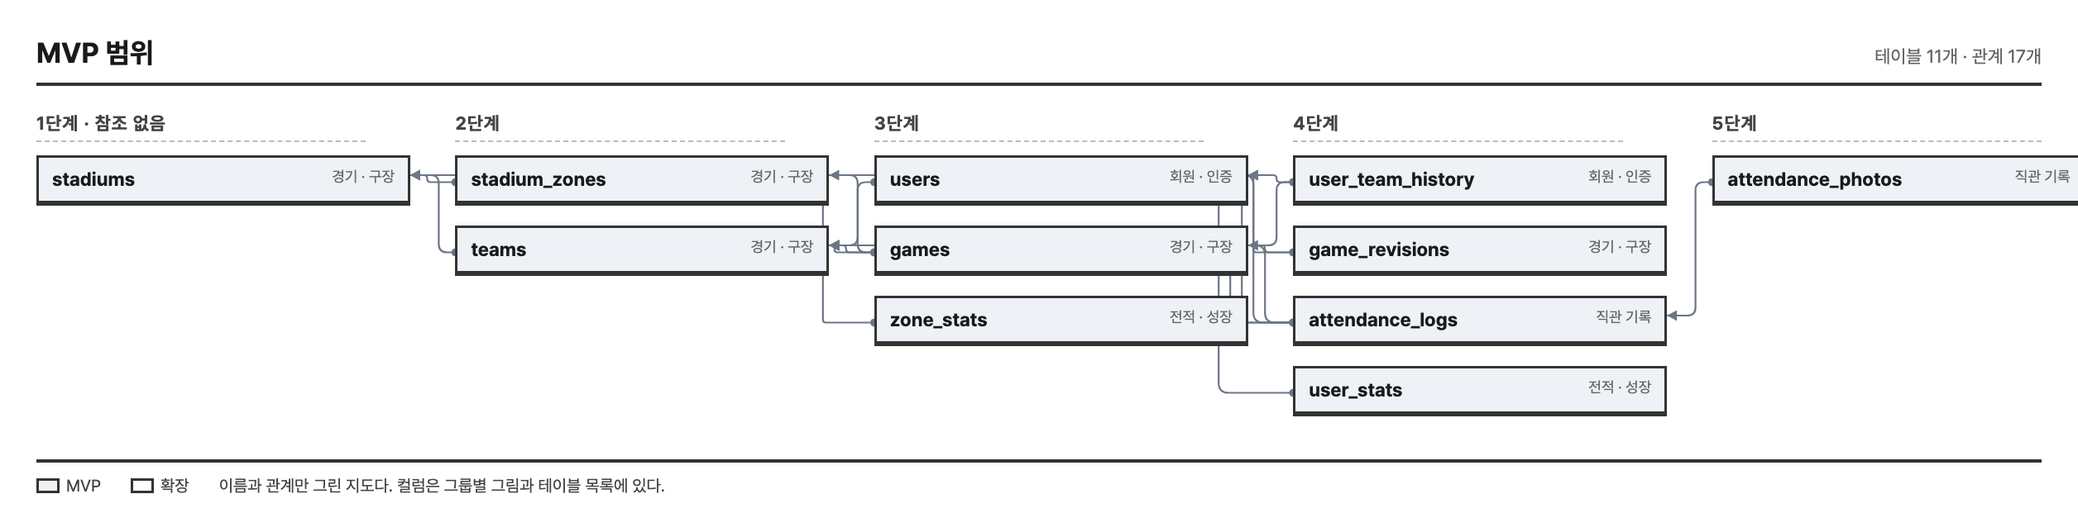
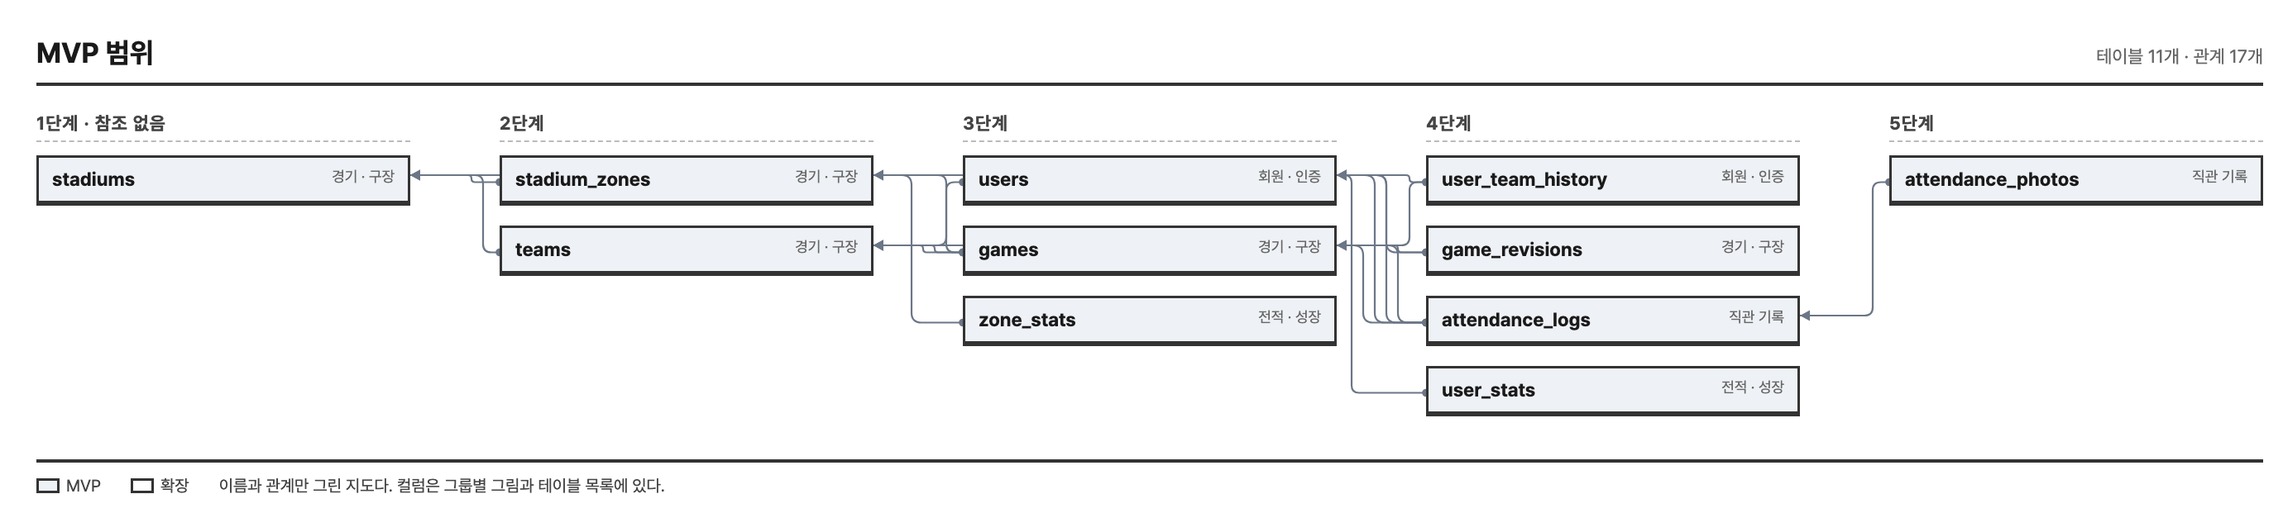
[INFRA] fix: ERD 그림의 오른쪽이 잘리던 문제
폭을 단계 수로 계산해 넘겼는데 테이블 이름 길이에 따라 몇 픽셀씩 넘쳐
오른쪽 열이 잘려 나갔다. MVP 지도 · 경기 구장 · 전체 지도 셋이 그랬다.

폭을 계산으로 맞추지 않는다. 내용에 맞춰 늘어나게 두고 창을 넉넉히 잡은 뒤
잉크가 닿은 범위로 잘라 낸다. 이제 이름이 길어져도 잘리지 않는다.

diff --git a/docs/_assets/erd/ERD-G2.html b/docs/_assets/erd/ERD-G2.html
@@ -42,7 +42,7 @@ svg.wires polygon { fill: #6b7686; }
   src: url('file:///Users/skalamok/Desktop/projects/today-jikgwan/docs/_assets/font/Pretendard-Regular.woff2') format('woff2'); }
 @font-face { font-family: Pretendard; font-weight: 700;
   src: url('file:///Users/skalamok/Desktop/projects/today-jikgwan/docs/_assets/font/Pretendard-Bold.woff2') format('woff2'); }
-body { width: 888px; }</style></head><body>
+body { width: max-content; min-width: 888px; }</style></head><body>
 <div class="sheet"><div class="head"><b>경기 · 구장</b><span>테이블 6개 · 관계 8개 &nbsp;·&nbsp; 단계 = 참조 깊이. 1단계는 다른 테이블을 참조하지 않는다</span></div>
 <svg class="wires"></svg><div class="cols"><div class="grp"><h3>1단계 · 참조 없음</h3><div class="sub"><div><div class="tbl mvp" data-t="stadiums"><div class="t"><span>stadiums</span><span class="sc">MVP</span></div><div class="c pk" data-c="stadiums.id"><span class="n">id</span><span class="ty">PK bigint</span></div><div class="c" data-c="stadiums.name"><span class="n">name</span><span class="ty">varchar(50)</span></div><div class="c" data-c="stadiums.name_en"><span class="n">name_en</span><span class="ty">varchar(100)</span></div><div class="c" data-c="stadiums.address"><span class="n">address</span><span class="ty">varchar(255)</span></div><div class="c" data-c="stadiums.capacity"><span class="n">capacity</span><span class="ty">int</span></div><div class="c" data-c="stadiums.latitude"><span class="n">latitude</span><span class="ty">decimal(10,7)</span></div><div class="c" data-c="stadiums.longitude"><span class="n">longitude</span><span class="ty">decimal(10,7)</span></div><div class="c" data-c="stadiums.grid_nx"><span class="n">grid_nx</span><span class="ty">int</span></div><div class="c" data-c="stadiums.grid_ny"><span class="n">grid_ny</span><span class="ty">int</span></div></div></div></div></div><div class="grp"><h3>2단계</h3><div class="sub"><div><div class="tbl mvp" data-t="stadium_zones"><div class="t"><span>stadium_zones</span><span class="sc">MVP</span></div><div class="c pk" data-c="stadium_zones.id"><span class="n">id</span><span class="ty">PK bigint</span></div><div class="c fk" data-c="stadium_zones.stadium_id"><span class="n">stadium_id</span><span class="ty">→ stadiums</span></div><div class="c" data-c="stadium_zones.name"><span class="n">name</span><span class="ty">varchar(50)</span></div><div class="c" data-c="stadium_zones.sort_order"><span class="n">sort_order</span><span class="ty">int</span></div><div class="c" data-c="stadium_zones.is_active"><span class="n">is_active</span><span class="ty">boolean</span></div></div><div class="tbl mvp" data-t="teams"><div class="t"><span>teams</span><span class="sc">MVP</span></div><div class="c pk" data-c="teams.id"><span class="n">id</span><span class="ty">PK bigint</span></div><div class="c" data-c="teams.name"><span class="n">name</span><span class="ty">varchar(50)</span></div><div class="c" data-c="teams.name_en"><span class="n">name_en</span><span class="ty">varchar(100)</span></div><div class="c" data-c="teams.short_name"><span class="n">short_name</span><span class="ty">varchar(10)</span></div><div class="c fk" data-c="teams.home_stadium_id"><span class="n">home_stadium_id</span><span class="ty">→ stadiums</span></div><div class="c" data-c="teams.external_ref"><span class="n">external_ref</span><span class="ty">varchar(50)</span></div><div class="c" data-c="teams.logo_url"><span class="n">logo_url</span><span class="ty">varchar(500)</span></div><div class="c" data-c="teams.homepage_url"><span class="n">homepage_url</span><span class="ty">varchar(500)</span></div><div class="c" data-c="teams.ticket_url"><span class="n">ticket_url</span><span class="ty">varchar(500)</span></div><div class="c" data-c="teams.instagram_url"><span class="n">instagram_url</span><span class="ty">varchar(500)</span></div><div class="c" data-c="teams.youtube_url"><span class="n">youtube_url</span><span class="ty">varchar(500)</span></div><div class="c" data-c="teams.is_active"><span class="n">is_active</span><span class="ty">boolean</span></div></div></div></div></div><div class="grp"><h3>3단계</h3><div class="sub"><div><div class="tbl mvp" data-t="games"><div class="t"><span>games</span><span class="sc">MVP</span></div><div class="c pk" data-c="games.id"><span class="n">id</span><span class="ty">PK bigint</span></div><div class="c" data-c="games.season_year"><span class="n">season_year</span><span class="ty">int</span></div><div class="c" data-c="games.game_date"><span class="n">game_date</span><span class="ty">date</span></div><div class="c" data-c="games.start_at"><span class="n">start_at</span><span class="ty">timestamp</span></div><div class="c fk" data-c="games.stadium_id"><span class="n">stadium_id</span><span class="ty">→ stadiums</span></div><div class="c fk" data-c="games.home_team_id"><span class="n">home_team_id</span><span class="ty">→ teams</span></div><div class="c fk" data-c="games.away_team_id"><span class="n">away_team_id</span><span class="ty">→ teams</span></div><div class="c" data-c="games.home_score"><span class="n">home_score</span><span class="ty">int</span></div><div class="c" data-c="games.away_score"><span class="n">away_score</span><span class="ty">int</span></div><div class="c" data-c="games.status"><span class="n">status</span><span class="ty">game_status</span></div><div class="c" data-c="games.source"><span class="n">source</span><span class="ty">game_source</span></div><div class="c" data-c="games.external_ref"><span class="n">external_ref</span><span class="ty">varchar(100)</span></div><div class="c" data-c="games.synced_at"><span class="n">synced_at</span><span class="ty">timestamp</span></div><div class="c" data-c="games.result_confirmed"><span class="n">result_confirmed</span><span class="ty">boolean</span></div><div class="c" data-c="games.confirmed_at"><span class="n">confirmed_at</span><span class="ty">timestamp</span></div><div class="c" data-c="games.created_at"><span class="n">created_at</span><span class="ty">timestamp</span></div><div class="c" data-c="games.updated_at"><span class="n">updated_at</span><span class="ty">timestamp</span></div></div></div></div></div><div class="grp"><h3>4단계</h3><div class="sub"><div><div class="tbl mvp" data-t="game_revisions"><div class="t"><span>game_revisions</span><span class="sc">MVP</span></div><div class="c pk" data-c="game_revisions.id"><span class="n">id</span><span class="ty">PK bigint</span></div><div class="c fk" data-c="game_revisions.game_id"><span class="n">game_id</span><span class="ty">→ games</span></div><div class="c" data-c="game_revisions.before_status"><span class="n">before_status</span><span class="ty">game_status</span></div><div class="c" data-c="game_revisions.before_home_score"><span class="n">before_home_score</span><span class="ty">int</span></div><div class="c" data-c="game_revisions.before_away_score"><span class="n">before_away_score</span><span class="ty">int</span></div><div class="c" data-c="game_revisions.after_status"><span class="n">after_status</span><span class="ty">game_status</span></div><div class="c" data-c="game_revisions.after_home_score"><span class="n">after_home_score</span><span class="ty">int</span></div><div class="c" data-c="game_revisions.after_away_score"><span class="n">after_away_score</span><span class="ty">int</span></div><div class="c" data-c="game_revisions.reason"><span class="n">reason</span><span class="ty">varchar(255)</span></div><div class="c fk" data-c="game_revisions.revised_by"><span class="n">revised_by</span><span class="ty">→ users</span></div><div class="c" data-c="game_revisions.revised_at"><span class="n">revised_at</span><span class="ty">timestamp</span></div></div><div class="tbl ext" data-t="game_weather"><div class="t"><span>game_weather</span><span class="sc">확장</span></div><div class="c pk" data-c="game_weather.game_id"><span class="n">game_id</span><span class="ty">PK bigint</span></div><div class="c" data-c="game_weather.temperature"><span class="n">temperature</span><span class="ty">decimal(4,1)</span></div><div class="c" data-c="game_weather.sky_code"><span class="n">sky_code</span><span class="ty">varchar(10)</span></div><div class="c" data-c="game_weather.precip_type"><span class="n">precip_type</span><span class="ty">varchar(10)</span></div><div class="c" data-c="game_weather.precip_prob"><span class="n">precip_prob</span><span class="ty">int</span></div><div class="c" data-c="game_weather.alert_title"><span class="n">alert_title</span><span class="ty">varchar(100)</span></div><div class="c" data-c="game_weather.fetched_at"><span class="n">fetched_at</span><span class="ty">timestamp</span></div></div></div></div></div></div>
 <div class="legend"><span>다른 그룹 참조 : users</span></div>

diff --git a/docs/_assets/erd/ERD-G5.html b/docs/_assets/erd/ERD-G5.html
@@ -42,7 +42,7 @@ svg.wires polygon { fill: #6b7686; }
   src: url('file:///Users/skalamok/Desktop/projects/today-jikgwan/docs/_assets/font/Pretendard-Regular.woff2') format('woff2'); }
 @font-face { font-family: Pretendard; font-weight: 700;
   src: url('file:///Users/skalamok/Desktop/projects/today-jikgwan/docs/_assets/font/Pretendard-Bold.woff2') format('woff2'); }
-body { width: 560px; }</style></head><body>
+body { width: max-content; min-width: 560px; }</style></head><body>
 <div class="sheet"><div class="head"><b>직관 메이트</b><span>테이블 5개 · 관계 10개 &nbsp;·&nbsp; 단계 = 참조 깊이. 1단계는 다른 테이블을 참조하지 않는다</span></div>
 <svg class="wires"></svg><div class="cols"><div class="grp"><h3>1단계 · 참조 없음</h3><div class="sub"><div><div class="tbl ext" data-t="companion_posts"><div class="t"><span>companion_posts</span><span class="sc">확장</span></div><div class="c pk" data-c="companion_posts.id"><span class="n">id</span><span class="ty">PK bigint</span></div><div class="c fk" data-c="companion_posts.game_id"><span class="n">game_id</span><span class="ty">→ games</span></div><div class="c fk" data-c="companion_posts.author_id"><span class="n">author_id</span><span class="ty">→ users</span></div><div class="c" data-c="companion_posts.intro"><span class="n">intro</span><span class="ty">varchar(500)</span></div><div class="c" data-c="companion_posts.capacity"><span class="n">capacity</span><span class="ty">int</span></div><div class="c" data-c="companion_posts.confirmed_count"><span class="n">confirmed_count</span><span class="ty">int</span></div><div class="c" data-c="companion_posts.status"><span class="n">status</span><span class="ty">post_status</span></div><div class="c" data-c="companion_posts.version"><span class="n">version</span><span class="ty">int</span></div><div class="c" data-c="companion_posts.created_at"><span class="n">created_at</span><span class="ty">timestamp</span></div><div class="c" data-c="companion_posts.closed_at"><span class="n">closed_at</span><span class="ty">timestamp</span></div></div></div></div></div><div class="grp"><h3>2단계</h3><div class="sub"><div><div class="tbl ext" data-t="companion_applications"><div class="t"><span>companion_applications</span><span class="sc">확장</span></div><div class="c pk" data-c="companion_applications.id"><span class="n">id</span><span class="ty">PK bigint</span></div><div class="c fk" data-c="companion_applications.companion_post_id"><span class="n">companion_post_id</span><span class="ty">→ companion_posts</span></div><div class="c fk" data-c="companion_applications.user_id"><span class="n">user_id</span><span class="ty">→ users</span></div><div class="c" data-c="companion_applications.status"><span class="n">status</span><span class="ty">application_status</span></div><div class="c" data-c="companion_applications.seq"><span class="n">seq</span><span class="ty">int</span></div><div class="c" data-c="companion_applications.applied_at"><span class="n">applied_at</span><span class="ty">timestamp</span></div><div class="c" data-c="companion_applications.canceled_at"><span class="n">canceled_at</span><span class="ty">timestamp</span></div></div><div class="tbl ext" data-t="companion_comments"><div class="t"><span>companion_comments</span><span class="sc">확장</span></div><div class="c pk" data-c="companion_comments.id"><span class="n">id</span><span class="ty">PK bigint</span></div><div class="c fk" data-c="companion_comments.companion_post_id"><span class="n">companion_post_id</span><span class="ty">→ companion_posts</span></div><div class="c fk" data-c="companion_comments.user_id"><span class="n">user_id</span><span class="ty">→ users</span></div><div class="c" data-c="companion_comments.content"><span class="n">content</span><span class="ty">varchar(500)</span></div><div class="c" data-c="companion_comments.created_at"><span class="n">created_at</span><span class="ty">timestamp</span></div><div class="c" data-c="companion_comments.deleted_at"><span class="n">deleted_at</span><span class="ty">timestamp</span></div></div><div class="tbl ext" data-t="companion_message_reads"><div class="t"><span>companion_message_reads</span><span class="sc">확장</span></div><div class="c pk" data-c="companion_message_reads.id"><span class="n">id</span><span class="ty">PK bigint</span></div><div class="c fk" data-c="companion_message_reads.companion_post_id"><span class="n">companion_post_id</span><span class="ty">→ companion_posts</span></div><div class="c fk" data-c="companion_message_reads.user_id"><span class="n">user_id</span><span class="ty">→ users</span></div><div class="c" data-c="companion_message_reads.last_read_at"><span class="n">last_read_at</span><span class="ty">timestamp</span></div></div><div class="tbl ext" data-t="companion_messages"><div class="t"><span>companion_messages</span><span class="sc">확장</span></div><div class="c pk" data-c="companion_messages.id"><span class="n">id</span><span class="ty">PK bigint</span></div><div class="c fk" data-c="companion_messages.companion_post_id"><span class="n">companion_post_id</span><span class="ty">→ companion_posts</span></div><div class="c fk" data-c="companion_messages.user_id"><span class="n">user_id</span><span class="ty">→ users</span></div><div class="c" data-c="companion_messages.content"><span class="n">content</span><span class="ty">varchar(1000)</span></div><div class="c" data-c="companion_messages.created_at"><span class="n">created_at</span><span class="ty">timestamp</span></div></div></div></div></div></div>
 <div class="legend"><span>다른 그룹 참조 : games, users</span></div>

diff --git a/docs/_assets/erd/ERD-G3.html b/docs/_assets/erd/ERD-G3.html
@@ -42,7 +42,7 @@ svg.wires polygon { fill: #6b7686; }
   src: url('file:///Users/skalamok/Desktop/projects/today-jikgwan/docs/_assets/font/Pretendard-Regular.woff2') format('woff2'); }
 @font-face { font-family: Pretendard; font-weight: 700;
   src: url('file:///Users/skalamok/Desktop/projects/today-jikgwan/docs/_assets/font/Pretendard-Bold.woff2') format('woff2'); }
-body { width: 560px; }</style></head><body>
+body { width: max-content; min-width: 560px; }</style></head><body>
 <div class="sheet"><div class="head"><b>직관 기록</b><span>테이블 3개 · 관계 7개 &nbsp;·&nbsp; 단계 = 참조 깊이. 1단계는 다른 테이블을 참조하지 않는다</span></div>
 <svg class="wires"></svg><div class="cols"><div class="grp"><h3>1단계 · 참조 없음</h3><div class="sub"><div><div class="tbl mvp" data-t="attendance_logs"><div class="t"><span>attendance_logs</span><span class="sc">MVP</span></div><div class="c pk" data-c="attendance_logs.id"><span class="n">id</span><span class="ty">PK bigint</span></div><div class="c fk" data-c="attendance_logs.user_id"><span class="n">user_id</span><span class="ty">→ users</span></div><div class="c fk" data-c="attendance_logs.game_id"><span class="n">game_id</span><span class="ty">→ games</span></div><div class="c fk" data-c="attendance_logs.cheer_team_id"><span class="n">cheer_team_id</span><span class="ty">→ teams</span></div><div class="c fk" data-c="attendance_logs.stadium_zone_id"><span class="n">stadium_zone_id</span><span class="ty">→ stadium_zones</span></div><div class="c" data-c="attendance_logs.zone_rating"><span class="n">zone_rating</span><span class="ty">tinyint</span></div><div class="c" data-c="attendance_logs.memo"><span class="n">memo</span><span class="ty">varchar(1000)</span></div><div class="c" data-c="attendance_logs.game_rating"><span class="n">game_rating</span><span class="ty">tinyint</span></div><div class="c" data-c="attendance_logs.ticket_cost"><span class="n">ticket_cost</span><span class="ty">int</span></div><div class="c" data-c="attendance_logs.food_cost"><span class="n">food_cost</span><span class="ty">int</span></div><div class="c" data-c="attendance_logs.transport_cost"><span class="n">transport_cost</span><span class="ty">int</span></div><div class="c" data-c="attendance_logs.visibility"><span class="n">visibility</span><span class="ty">visibility</span></div><div class="c" data-c="attendance_logs.weather_sky"><span class="n">weather_sky</span><span class="ty">varchar(10)</span></div><div class="c" data-c="attendance_logs.weather_temp"><span class="n">weather_temp</span><span class="ty">decimal(4,1)</span></div><div class="c" data-c="attendance_logs.created_at"><span class="n">created_at</span><span class="ty">timestamp</span></div><div class="c" data-c="attendance_logs.updated_at"><span class="n">updated_at</span><span class="ty">timestamp</span></div><div class="c" data-c="attendance_logs.deleted_at"><span class="n">deleted_at</span><span class="ty">timestamp</span></div></div></div></div></div><div class="grp"><h3>2단계</h3><div class="sub"><div><div class="tbl ext" data-t="attendance_companions"><div class="t"><span>attendance_companions</span><span class="sc">확장</span></div><div class="c pk" data-c="attendance_companions.id"><span class="n">id</span><span class="ty">PK bigint</span></div><div class="c fk" data-c="attendance_companions.attendance_log_id"><span class="n">attendance_log_id</span><span class="ty">→ attendance_logs</span></div><div class="c fk" data-c="attendance_companions.companion_user_id"><span class="n">companion_user_id</span><span class="ty">→ users</span></div><div class="c" data-c="attendance_companions.companion_name"><span class="n">companion_name</span><span class="ty">varchar(30)</span></div></div><div class="tbl mvp" data-t="attendance_photos"><div class="t"><span>attendance_photos</span><span class="sc">MVP</span></div><div class="c pk" data-c="attendance_photos.id"><span class="n">id</span><span class="ty">PK bigint</span></div><div class="c fk" data-c="attendance_photos.attendance_log_id"><span class="n">attendance_log_id</span><span class="ty">→ attendance_logs</span></div><div class="c" data-c="attendance_photos.original_url"><span class="n">original_url</span><span class="ty">varchar(500)</span></div><div class="c" data-c="attendance_photos.thumbnail_url"><span class="n">thumbnail_url</span><span class="ty">varchar(500)</span></div><div class="c" data-c="attendance_photos.taken_at"><span class="n">taken_at</span><span class="ty">timestamp</span></div><div class="c" data-c="attendance_photos.file_size"><span class="n">file_size</span><span class="ty">int</span></div><div class="c" data-c="attendance_photos.mime_type"><span class="n">mime_type</span><span class="ty">varchar(50)</span></div><div class="c" data-c="attendance_photos.sort_order"><span class="n">sort_order</span><span class="ty">int</span></div><div class="c" data-c="attendance_photos.created_at"><span class="n">created_at</span><span class="ty">timestamp</span></div></div></div></div></div></div>
 <div class="legend"><span>다른 그룹 참조 : games, stadium_zones, teams, users</span></div>

diff --git a/docs/_assets/erd/ERD-G4.html b/docs/_assets/erd/ERD-G4.html
@@ -42,7 +42,7 @@ svg.wires polygon { fill: #6b7686; }
   src: url('file:///Users/skalamok/Desktop/projects/today-jikgwan/docs/_assets/font/Pretendard-Regular.woff2') format('woff2'); }
 @font-face { font-family: Pretendard; font-weight: 700;
   src: url('file:///Users/skalamok/Desktop/projects/today-jikgwan/docs/_assets/font/Pretendard-Bold.woff2') format('woff2'); }
-body { width: 560px; }</style></head><body>
+body { width: max-content; min-width: 560px; }</style></head><body>
 <div class="sheet"><div class="head"><b>전적 · 성장</b><span>테이블 5개 · 관계 5개 &nbsp;·&nbsp; 단계 = 참조 깊이. 1단계는 다른 테이블을 참조하지 않는다</span></div>
 <svg class="wires"></svg><div class="cols"><div class="grp"><h3>1단계 · 참조 없음</h3><div class="sub"><div><div class="tbl ext" data-t="badges"><div class="t"><span>badges</span><span class="sc">확장</span></div><div class="c pk" data-c="badges.id"><span class="n">id</span><span class="ty">PK bigint</span></div><div class="c" data-c="badges.code"><span class="n">code</span><span class="ty">varchar(50)</span></div><div class="c" data-c="badges.name"><span class="n">name</span><span class="ty">varchar(50)</span></div><div class="c" data-c="badges.description"><span class="n">description</span><span class="ty">varchar(255)</span></div><div class="c" data-c="badges.icon_url"><span class="n">icon_url</span><span class="ty">varchar(500)</span></div></div><div class="tbl mvp" data-t="user_stats"><div class="t"><span>user_stats</span><span class="sc">MVP</span></div><div class="c pk" data-c="user_stats.id"><span class="n">id</span><span class="ty">PK bigint</span></div><div class="c fk" data-c="user_stats.user_id"><span class="n">user_id</span><span class="ty">→ users</span></div><div class="c" data-c="user_stats.dimension"><span class="n">dimension</span><span class="ty">stat_dimension</span></div><div class="c" data-c="user_stats.dimension_key"><span class="n">dimension_key</span><span class="ty">varchar(50)</span></div><div class="c" data-c="user_stats.season_year"><span class="n">season_year</span><span class="ty">int</span></div><div class="c" data-c="user_stats.games"><span class="n">games</span><span class="ty">int</span></div><div class="c" data-c="user_stats.wins"><span class="n">wins</span><span class="ty">int</span></div><div class="c" data-c="user_stats.draws"><span class="n">draws</span><span class="ty">int</span></div><div class="c" data-c="user_stats.losses"><span class="n">losses</span><span class="ty">int</span></div><div class="c" data-c="user_stats.total_cost"><span class="n">total_cost</span><span class="ty">int</span></div><div class="c" data-c="user_stats.updated_at"><span class="n">updated_at</span><span class="ty">timestamp</span></div></div><div class="tbl ext" data-t="user_streaks"><div class="t"><span>user_streaks</span><span class="sc">확장</span></div><div class="c pk" data-c="user_streaks.user_id"><span class="n">user_id</span><span class="ty">PK bigint</span></div><div class="c" data-c="user_streaks.current_streak"><span class="n">current_streak</span><span class="ty">int</span></div><div class="c" data-c="user_streaks.longest_win"><span class="n">longest_win</span><span class="ty">int</span></div><div class="c" data-c="user_streaks.last_game_date"><span class="n">last_game_date</span><span class="ty">date</span></div><div class="c" data-c="user_streaks.updated_at"><span class="n">updated_at</span><span class="ty">timestamp</span></div></div><div class="tbl mvp" data-t="zone_stats"><div class="t"><span>zone_stats</span><span class="sc">MVP</span></div><div class="c pk" data-c="zone_stats.stadium_zone_id"><span class="n">stadium_zone_id</span><span class="ty">PK bigint</span></div><div class="c" data-c="zone_stats.rating_sum"><span class="n">rating_sum</span><span class="ty">int</span></div><div class="c" data-c="zone_stats.rating_count"><span class="n">rating_count</span><span class="ty">int</span></div><div class="c" data-c="zone_stats.avg_rating"><span class="n">avg_rating</span><span class="ty">decimal(3,2)</span></div><div class="c" data-c="zone_stats.updated_at"><span class="n">updated_at</span><span class="ty">timestamp</span></div></div></div></div></div><div class="grp"><h3>2단계</h3><div class="sub"><div><div class="tbl ext" data-t="user_badges"><div class="t"><span>user_badges</span><span class="sc">확장</span></div><div class="c pk" data-c="user_badges.id"><span class="n">id</span><span class="ty">PK bigint</span></div><div class="c fk" data-c="user_badges.user_id"><span class="n">user_id</span><span class="ty">→ users</span></div><div class="c fk" data-c="user_badges.badge_id"><span class="n">badge_id</span><span class="ty">→ badges</span></div><div class="c" data-c="user_badges.achieved_at"><span class="n">achieved_at</span><span class="ty">timestamp</span></div></div></div></div></div></div>
 <div class="legend"><span>다른 그룹 참조 : stadium_zones, users</span></div>

diff --git a/docs/_assets/erd/ERD-G1.html b/docs/_assets/erd/ERD-G1.html
@@ -42,7 +42,7 @@ svg.wires polygon { fill: #6b7686; }
   src: url('file:///Users/skalamok/Desktop/projects/today-jikgwan/docs/_assets/font/Pretendard-Regular.woff2') format('woff2'); }
 @font-face { font-family: Pretendard; font-weight: 700;
   src: url('file:///Users/skalamok/Desktop/projects/today-jikgwan/docs/_assets/font/Pretendard-Bold.woff2') format('woff2'); }
-body { width: 560px; }</style></head><body>
+body { width: max-content; min-width: 560px; }</style></head><body>
 <div class="sheet"><div class="head"><b>회원 · 인증</b><span>테이블 4개 · 관계 6개 &nbsp;·&nbsp; 단계 = 참조 깊이. 1단계는 다른 테이블을 참조하지 않는다</span></div>
 <svg class="wires"></svg><div class="cols"><div class="grp"><h3>1단계 · 참조 없음</h3><div class="sub"><div><div class="tbl mvp" data-t="users"><div class="t"><span>users</span><span class="sc">MVP</span></div><div class="c pk" data-c="users.id"><span class="n">id</span><span class="ty">PK bigint</span></div><div class="c" data-c="users.email"><span class="n">email</span><span class="ty">varchar(255)</span></div><div class="c" data-c="users.password_hash"><span class="n">password_hash</span><span class="ty">varchar(255)</span></div><div class="c" data-c="users.nickname"><span class="n">nickname</span><span class="ty">varchar(30)</span></div><div class="c" data-c="users.profile_image_url"><span class="n">profile_image_url</span><span class="ty">varchar(500)</span></div><div class="c fk" data-c="users.favorite_team_id"><span class="n">favorite_team_id</span><span class="ty">→ teams</span></div><div class="c" data-c="users.role"><span class="n">role</span><span class="ty">user_role</span></div><div class="c" data-c="users.status"><span class="n">status</span><span class="ty">user_status</span></div><div class="c" data-c="users.email_verified_at"><span class="n">email_verified_at</span><span class="ty">timestamp</span></div><div class="c" data-c="users.created_at"><span class="n">created_at</span><span class="ty">timestamp</span></div><div class="c" data-c="users.updated_at"><span class="n">updated_at</span><span class="ty">timestamp</span></div><div class="c" data-c="users.withdrawn_at"><span class="n">withdrawn_at</span><span class="ty">timestamp</span></div></div></div></div></div><div class="grp"><h3>2단계</h3><div class="sub"><div><div class="tbl ext" data-t="user_blocks"><div class="t"><span>user_blocks</span><span class="sc">확장</span></div><div class="c pk" data-c="user_blocks.id"><span class="n">id</span><span class="ty">PK bigint</span></div><div class="c fk" data-c="user_blocks.user_id"><span class="n">user_id</span><span class="ty">→ users</span></div><div class="c fk" data-c="user_blocks.blocked_id"><span class="n">blocked_id</span><span class="ty">→ users</span></div><div class="c" data-c="user_blocks.created_at"><span class="n">created_at</span><span class="ty">timestamp</span></div></div><div class="tbl ext" data-t="user_social_accounts"><div class="t"><span>user_social_accounts</span><span class="sc">확장</span></div><div class="c pk" data-c="user_social_accounts.id"><span class="n">id</span><span class="ty">PK bigint</span></div><div class="c fk" data-c="user_social_accounts.user_id"><span class="n">user_id</span><span class="ty">→ users</span></div><div class="c" data-c="user_social_accounts.provider"><span class="n">provider</span><span class="ty">varchar(20)</span></div><div class="c" data-c="user_social_accounts.provider_user_id"><span class="n">provider_user_id</span><span class="ty">varchar(100)</span></div><div class="c" data-c="user_social_accounts.email"><span class="n">email</span><span class="ty">varchar(255)</span></div><div class="c" data-c="user_social_accounts.linked_at"><span class="n">linked_at</span><span class="ty">timestamp</span></div><div class="c" data-c="user_social_accounts.created_at"><span class="n">created_at</span><span class="ty">timestamp</span></div><div class="c" data-c="user_social_accounts.updated_at"><span class="n">updated_at</span><span class="ty">timestamp</span></div></div><div class="tbl mvp" data-t="user_team_history"><div class="t"><span>user_team_history</span><span class="sc">MVP</span></div><div class="c pk" data-c="user_team_history.id"><span class="n">id</span><span class="ty">PK bigint</span></div><div class="c fk" data-c="user_team_history.user_id"><span class="n">user_id</span><span class="ty">→ users</span></div><div class="c fk" data-c="user_team_history.team_id"><span class="n">team_id</span><span class="ty">→ teams</span></div><div class="c" data-c="user_team_history.changed_at"><span class="n">changed_at</span><span class="ty">timestamp</span></div></div></div></div></div></div>
 <div class="legend"><span>다른 그룹 참조 : teams</span></div>

diff --git a/docs/_assets/erd/ERD-G7.html b/docs/_assets/erd/ERD-G7.html
@@ -42,7 +42,7 @@ svg.wires polygon { fill: #6b7686; }
   src: url('file:///Users/skalamok/Desktop/projects/today-jikgwan/docs/_assets/font/Pretendard-Regular.woff2') format('woff2'); }
 @font-face { font-family: Pretendard; font-weight: 700;
   src: url('file:///Users/skalamok/Desktop/projects/today-jikgwan/docs/_assets/font/Pretendard-Bold.woff2') format('woff2'); }
-body { width: 560px; }</style></head><body>
+body { width: max-content; min-width: 560px; }</style></head><body>
 <div class="sheet"><div class="head"><b>운영 · 알림</b><span>테이블 2개 · 관계 3개 &nbsp;·&nbsp; 단계 = 참조 깊이. 1단계는 다른 테이블을 참조하지 않는다</span></div>
 <svg class="wires"></svg><div class="cols"><div class="grp"><h3>1단계 · 참조 없음</h3><div class="sub"><div><div class="tbl ext" data-t="notifications"><div class="t"><span>notifications</span><span class="sc">확장</span></div><div class="c pk" data-c="notifications.id"><span class="n">id</span><span class="ty">PK bigint</span></div><div class="c fk" data-c="notifications.user_id"><span class="n">user_id</span><span class="ty">→ users</span></div><div class="c" data-c="notifications.type"><span class="n">type</span><span class="ty">varchar(30)</span></div><div class="c" data-c="notifications.title"><span class="n">title</span><span class="ty">varchar(100)</span></div><div class="c" data-c="notifications.body"><span class="n">body</span><span class="ty">varchar(255)</span></div><div class="c" data-c="notifications.link_url"><span class="n">link_url</span><span class="ty">varchar(255)</span></div><div class="c" data-c="notifications.read_at"><span class="n">read_at</span><span class="ty">timestamp</span></div><div class="c" data-c="notifications.created_at"><span class="n">created_at</span><span class="ty">timestamp</span></div></div><div class="tbl ext" data-t="reports"><div class="t"><span>reports</span><span class="sc">확장</span></div><div class="c pk" data-c="reports.id"><span class="n">id</span><span class="ty">PK bigint</span></div><div class="c fk" data-c="reports.reporter_id"><span class="n">reporter_id</span><span class="ty">→ users</span></div><div class="c" data-c="reports.target_type"><span class="n">target_type</span><span class="ty">report_target</span></div><div class="c" data-c="reports.target_id"><span class="n">target_id</span><span class="ty">bigint</span></div><div class="c" data-c="reports.reason"><span class="n">reason</span><span class="ty">varchar(255)</span></div><div class="c" data-c="reports.status"><span class="n">status</span><span class="ty">report_status</span></div><div class="c" data-c="reports.created_at"><span class="n">created_at</span><span class="ty">timestamp</span></div><div class="c" data-c="reports.reviewed_at"><span class="n">reviewed_at</span><span class="ty">timestamp</span></div><div class="c fk" data-c="reports.reviewed_by"><span class="n">reviewed_by</span><span class="ty">→ users</span></div></div></div></div></div></div>
 <div class="legend"><span>다른 그룹 참조 : users</span></div>

diff --git a/docs/_assets/erd/ERD-G6.html b/docs/_assets/erd/ERD-G6.html
@@ -42,7 +42,7 @@ svg.wires polygon { fill: #6b7686; }
   src: url('file:///Users/skalamok/Desktop/projects/today-jikgwan/docs/_assets/font/Pretendard-Regular.woff2') format('woff2'); }
 @font-face { font-family: Pretendard; font-weight: 700;
   src: url('file:///Users/skalamok/Desktop/projects/today-jikgwan/docs/_assets/font/Pretendard-Bold.woff2') format('woff2'); }
-body { width: 560px; }</style></head><body>
+body { width: max-content; min-width: 560px; }</style></head><body>
 <div class="sheet"><div class="head"><b>관람 계획</b><span>테이블 2개 · 관계 3개 &nbsp;·&nbsp; 단계 = 참조 깊이. 1단계는 다른 테이블을 참조하지 않는다</span></div>
 <svg class="wires"></svg><div class="cols"><div class="grp"><h3>1단계 · 참조 없음</h3><div class="sub"><div><div class="tbl ext" data-t="viewing_plans"><div class="t"><span>viewing_plans</span><span class="sc">확장</span></div><div class="c pk" data-c="viewing_plans.id"><span class="n">id</span><span class="ty">PK bigint</span></div><div class="c fk" data-c="viewing_plans.user_id"><span class="n">user_id</span><span class="ty">→ users</span></div><div class="c" data-c="viewing_plans.season_year"><span class="n">season_year</span><span class="ty">int</span></div><div class="c" data-c="viewing_plans.target_count"><span class="n">target_count</span><span class="ty">int</span></div><div class="c" data-c="viewing_plans.budget_total"><span class="n">budget_total</span><span class="ty">int</span></div><div class="c" data-c="viewing_plans.max_cost_per_game"><span class="n">max_cost_per_game</span><span class="ty">int</span></div><div class="c" data-c="viewing_plans.available_days"><span class="n">available_days</span><span class="ty">varchar(30)</span></div><div class="c" data-c="viewing_plans.max_precip_prob"><span class="n">max_precip_prob</span><span class="ty">int</span></div><div class="c" data-c="viewing_plans.created_at"><span class="n">created_at</span><span class="ty">timestamp</span></div></div></div></div></div><div class="grp"><h3>2단계</h3><div class="sub"><div><div class="tbl ext" data-t="viewing_plan_items"><div class="t"><span>viewing_plan_items</span><span class="sc">확장</span></div><div class="c pk" data-c="viewing_plan_items.id"><span class="n">id</span><span class="ty">PK bigint</span></div><div class="c fk" data-c="viewing_plan_items.viewing_plan_id"><span class="n">viewing_plan_id</span><span class="ty">→ viewing_plans</span></div><div class="c fk" data-c="viewing_plan_items.game_id"><span class="n">game_id</span><span class="ty">→ games</span></div><div class="c" data-c="viewing_plan_items.status"><span class="n">status</span><span class="ty">plan_item_status</span></div><div class="c" data-c="viewing_plan_items.created_at"><span class="n">created_at</span><span class="ty">timestamp</span></div></div></div></div></div></div>
 <div class="legend"><span>다른 그룹 참조 : games, users</span></div>

diff --git a/docs/_assets/erd/ERD-ALL.html b/docs/_assets/erd/ERD-ALL.html
@@ -42,7 +42,7 @@ svg.wires polygon { fill: #6b7686; }
   src: url('file:///Users/skalamok/Desktop/projects/today-jikgwan/docs/_assets/font/Pretendard-Regular.woff2') format('woff2'); }
 @font-face { font-family: Pretendard; font-weight: 700;
   src: url('file:///Users/skalamok/Desktop/projects/today-jikgwan/docs/_assets/font/Pretendard-Bold.woff2') format('woff2'); }
-body { width: 1256px; }
+body { width: max-content; min-width: 1256px; }
 .tbl > .t { padding: 6px 8px; }
 .grp .sub > div { min-width: 226px; }</style></head><body>
 <div class="sheet"><div class="head"><b>전체 관계 지도</b><span>테이블 27개 · 관계 42개</span></div>

diff --git a/docs/_assets/erd/ERD-CORE.html b/docs/_assets/erd/ERD-CORE.html
@@ -42,7 +42,7 @@ svg.wires polygon { fill: #6b7686; }
   src: url('file:///Users/skalamok/Desktop/projects/today-jikgwan/docs/_assets/font/Pretendard-Regular.woff2') format('woff2'); }
 @font-face { font-family: Pretendard; font-weight: 700;
   src: url('file:///Users/skalamok/Desktop/projects/today-jikgwan/docs/_assets/font/Pretendard-Bold.woff2') format('woff2'); }
-body { width: 1256px; }
+body { width: max-content; min-width: 1256px; }
 .tbl > .t { padding: 6px 8px; }
 .grp .sub > div { min-width: 226px; }</style></head><body>
 <div class="sheet"><div class="head"><b>MVP 범위</b><span>테이블 11개 · 관계 17개</span></div>

diff --git a/tools/build_erd.py b/tools/build_erd.py
@@ -251,7 +251,7 @@ def sheet(title, sub, groups, tables, refs, width):
   src: url('file://%s/docs/_assets/font/Pretendard-Regular.woff2') format('woff2'); }
 @font-face { font-family: Pretendard; font-weight: 700;
   src: url('file://%s/docs/_assets/font/Pretendard-Bold.woff2') format('woff2'); }
-body { width: %dpx; }</style></head><body>
+body { width: max-content; min-width: %dpx; }</style></head><body>
 <div class="sheet"><div class="head"><b>%s</b><span>%s</span></div>
 <svg class="wires"></svg><div class="cols">%s</div>
 <div class="legend"><span><span class="sw"></span>MVP</span>
@@ -266,21 +266,23 @@ body { width: %dpx; }</style></head><body>
 
 
 def shoot(name, html, width=0):
-    width = width or int(re.search(r"body \{ width: (\d+)px", html).group(1))
+    width = width or int(re.search(r"min-width: (\d+)px", html).group(1))
     os.makedirs(OUT, exist_ok=True)
     hp = os.path.join(OUT, name + ".html")
     io.open(hp, "w", encoding="utf-8").write(html)
     png = os.path.join(OUT, name + ".png")
+    # 창을 넉넉히 잡고 잉크가 닿은 범위로 잘라 낸다. 폭을 계산으로 맞추면
+    # 테이블 이름 길이에 따라 몇 픽셀씩 넘쳐 오른쪽이 잘린다
     subprocess.run([CHROME, "--headless", "--disable-gpu", "--hide-scrollbars",
                     "--force-device-scale-factor=2",
-                    "--window-size=%d,%d" % (width, 3400),
+                    "--window-size=%d,%d" % (max(width + 700, 2600), 3400),
                     "--virtual-time-budget=3000",
                     "--screenshot=" + png, "file://" + hp], capture_output=True)
     from PIL import Image, ImageChops
     im = Image.open(png).convert("RGB")
     bb = ImageChops.difference(im, Image.new("RGB", im.size, (255, 255, 255))).getbbox()
     if bb:
-        im = im.crop((0, 0, im.width, min(im.height, bb[3] + 24)))
+        im = im.crop((0, 0, min(im.width, bb[2] + 24), min(im.height, bb[3] + 24)))
     im.save(png, optimize=True)
     print("  %-10s %dx%d  %.1fKB" % (name, im.width, im.height, os.path.getsize(png) / 1024))
 
@@ -324,7 +326,7 @@ def group_sheet(gname, members, tables, refs):
   src: url('file://%s/docs/_assets/font/Pretendard-Regular.woff2') format('woff2'); }
 @font-face { font-family: Pretendard; font-weight: 700;
   src: url('file://%s/docs/_assets/font/Pretendard-Bold.woff2') format('woff2'); }
-body { width: %dpx; }</style></head><body>
+body { width: max-content; min-width: %dpx; }</style></head><body>
 <div class="sheet"><div class="head"><b>%s</b><span>테이블 %d개 · 관계 %d개 &nbsp;·&nbsp; 단계 = 참조 깊이. 1단계는 다른 테이블을 참조하지 않는다</span></div>
 <svg class="wires"></svg><div class="cols">%s</div>
 <div class="legend"><span>%s</span></div>
@@ -360,7 +362,7 @@ def map_sheet(title, sub, groups, tables, refs):
   src: url('file://%s/docs/_assets/font/Pretendard-Regular.woff2') format('woff2'); }
 @font-face { font-family: Pretendard; font-weight: 700;
   src: url('file://%s/docs/_assets/font/Pretendard-Bold.woff2') format('woff2'); }
-body { width: %dpx; }
+body { width: max-content; min-width: %dpx; }
 .tbl > .t { padding: 6px 8px; }
 .grp .sub > div { min-width: 226px; }</style></head><body>
 <div class="sheet"><div class="head"><b>%s</b><span>%s</span></div>
@@ -384,7 +386,7 @@ def main():
                                groups, tables, refs), 0)
     for i, g in enumerate(groups, 1):
         html = group_sheet(g["name"], g["tables"], tables, refs)
-        shoot("ERD-G%d" % i, html, int(re.search(r"body \{ width: (\d+)px", html).group(1)))
+        shoot("ERD-G%d" % i, html, int(re.search(r"min-width: (\d+)px", html).group(1)))
 
 
 if __name__ == "__main__":
